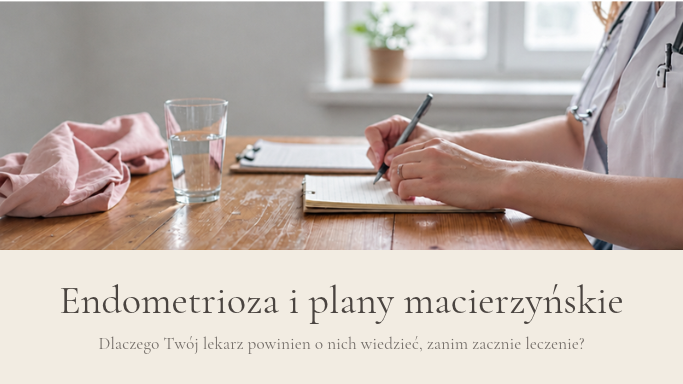
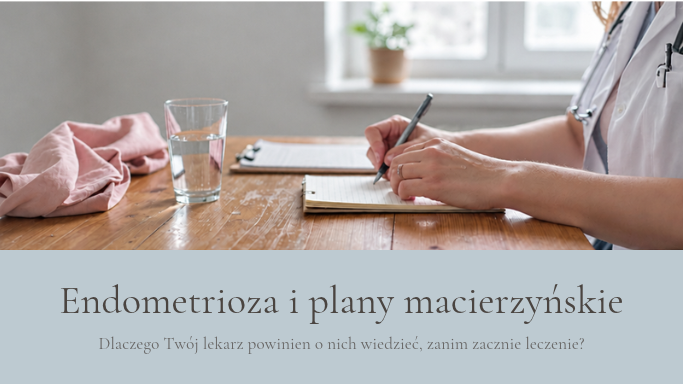
start

diff --git a/artykuly/Wiesz-kiedy-wykonac-badania-bolerioza/index.html b/artykuly/Wiesz-kiedy-wykonac-badania-bolerioza/index.html
@@ -58,15 +58,15 @@
 
 									<h2>Kiedy zrobić badanie?</h2>
 										<div class="box">
-											<h3>ETAP 1</h3>
-											<p>Przeciwciała IgM i IgG przeciwko Borrelia burgdorferi metodą ELISA / CLIA.</p>
-											<p>min. 4 tyg od ukąszenia</p>
+											<h3>ETAP 1: Kiedy zrobić pierwsze badanie?</h3>
+											<p>Pierwszym krokiem jest oznaczenie przeciwciał IgM i IgG przeciwko Borrelia burgdorferi metodą ELISA lub CLIA.</p>
+											<p><b>Ważny czas:</b> Badanie to należy wykonać minimum <b>4 tygodnie od ukąszenia.</b> Wykonanie go wcześniej może dać wynik fałszywie ujemny, ponieważ organizm nie zdążył jeszcze wyprodukować mierzalnej ilości przeciwciał (jest to tzw. okienko serologiczne).</p>
 										</div>
 
 										<div class="box">
-											<h3>ETAP 2</h3>
-											<p>Jeśli wynik wyjdzie dodatni lub wątpliwy wykonaj badanie potwierdzające metodą Western Blot.</p>
-											
+											<h3>ETAP 2: Potwierdzenie wyniku</h3>
+											<p>Metoda ELISA/CLIA charakteryzuje się wysoką czułością, ale może dawać wyniki krzyżowe. Dlatego:</p>
+											<p>Jeśli wynik pierwszego etapu wyjdzie dodatni lub wątpliwy, należy bezwzględnie wykonać badanie potwierdzające metodą Western Blot. Dopiero dodatni wynik testu Western Blot weryfikuje obecność specyficznych przeciwciał.</p>
 										</div>
 									<h2>Jeśli masz rumień, gorączkę lub inne objawy grypopodobne, jak najszybciej skontaktuj się z lekarzem. Objawy kliniczne są wystarczające do rozpoznania choroby i rozpoczęcia leczenia antybiotykami.</h2>
 
